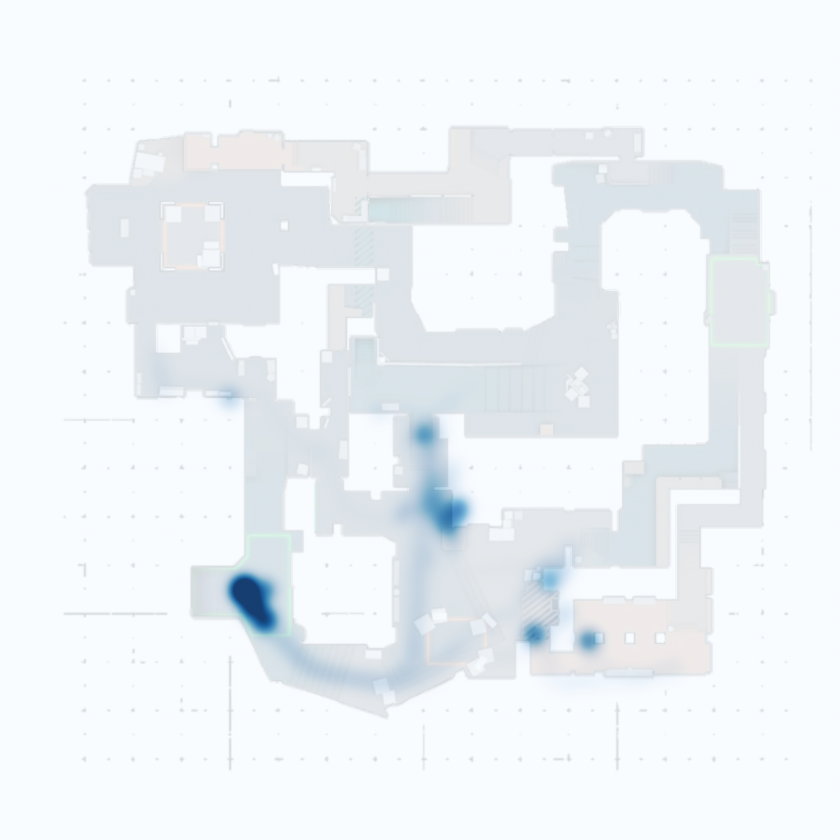
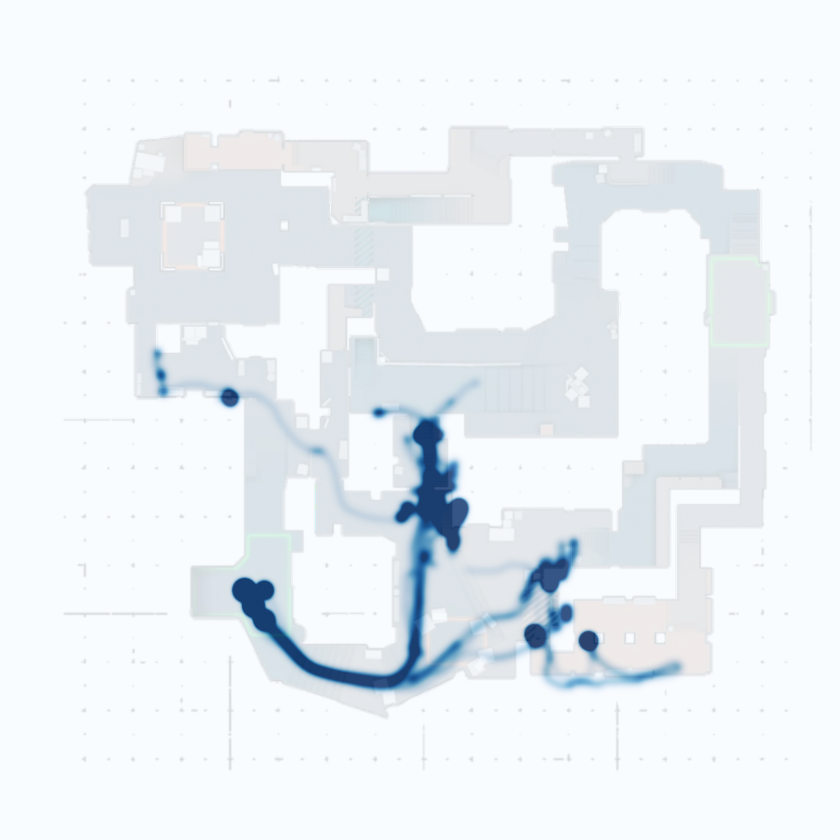
add package dotenv

diff --git a/faceit_analytics/analyzer.py b/faceit_analytics/analyzer.py
@@ -45,15 +45,15 @@ HEAT_ALPHA_SIDE = 0.82
 
 # Presence (most smooth)
 PRESENCE_BINS  = 850
-PRESENCE_SIGMA = 8.0
-PRESENCE_PCTL  = 99.9
+PRESENCE_SIGMA = 4.0
+PRESENCE_PCTL  = 98.9
 PRESENCE_GAMMA = 1.20
 
 # K/D (slightly tighter)
-KD_BINS  = 520
-KD_SIGMA = 20.0
-KD_PCTL  = 99.0
-KD_GAMMA = 0.90
+KD_BINS  = 850
+KD_SIGMA = 4.0
+KD_PCTL  = 98.9
+KD_GAMMA = 1.20
 
 # Colormaps
 CMAP_ALL = "inferno"
